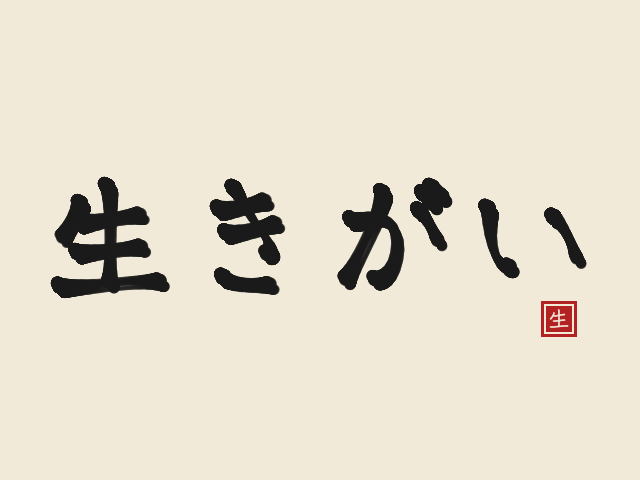
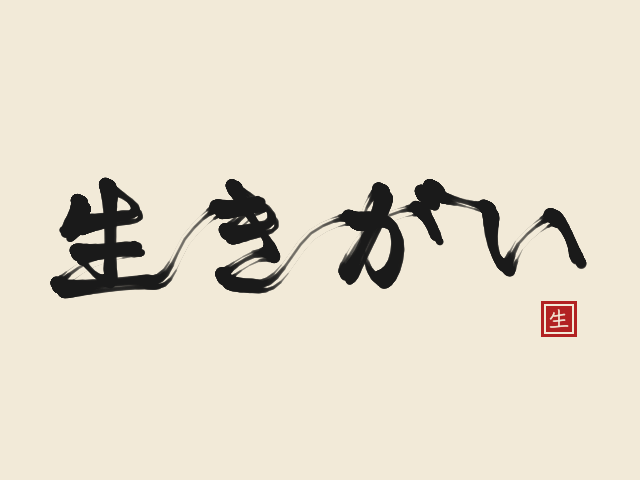
docs(ts-brush): one-stroke writing in README and screenshot

diff --git a/files/effects/ts-brush/README.md b/files/effects/ts-brush/README.md
@@ -41,6 +41,13 @@ The move of a frame is split into 20 sub-steps. For each of them, three soft dis
 the main one and two smaller ones moved aside, which leave the thin lines of the bristles where the brush goes fast.
 The screen is never cleared while writing, so the ink accumulates.
 
+The brush never leaves the paper: the whole word is written as one long stroke, like cursive.
+Between two strokes, the pen swings to the start of the next one along a cubic Bézier curve.
+The curve leaves in the direction the stroke ends and arrives in the direction the next one starts,
+and long moves (between two characters) are arched upward, like a hand lifting over the paper.
+During these moves the pen goes twice as fast, the brush is narrower (70%) and the ink lighter,
+so the joins look like the dry streaks of a brush barely touching the paper.
+
 Once the word is written, a red seal is stamped, the page stays on screen for 3 seconds, fades back to blank paper, and the brush starts again.
 
 ## **License**
